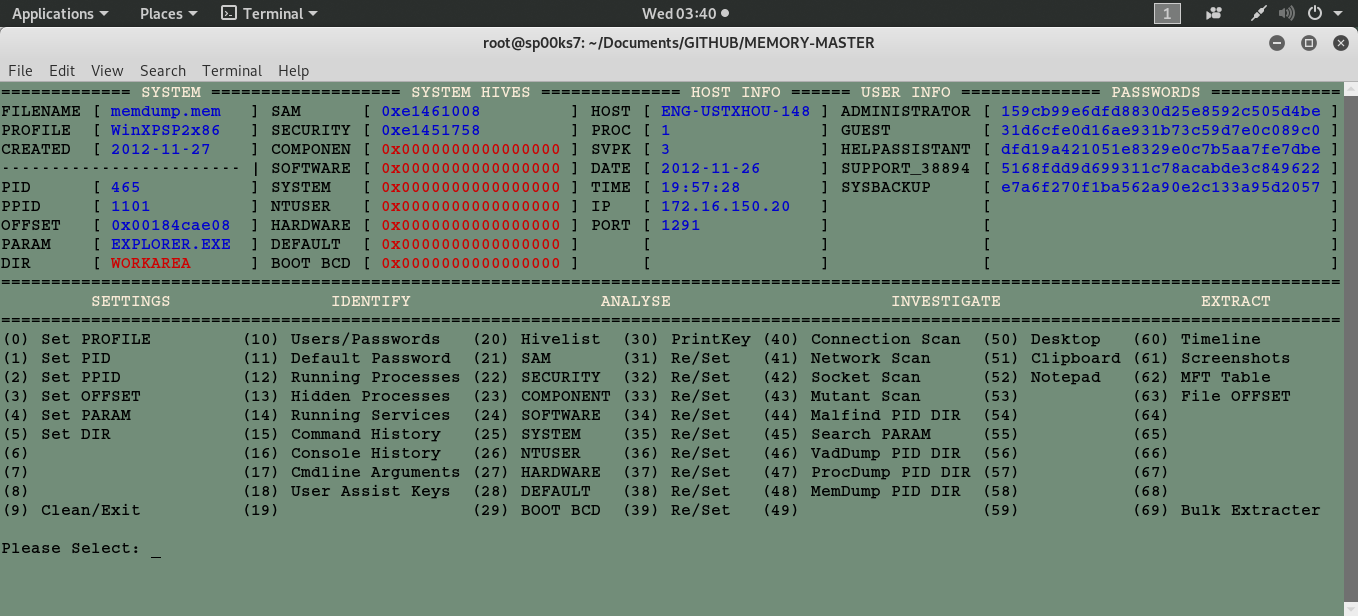
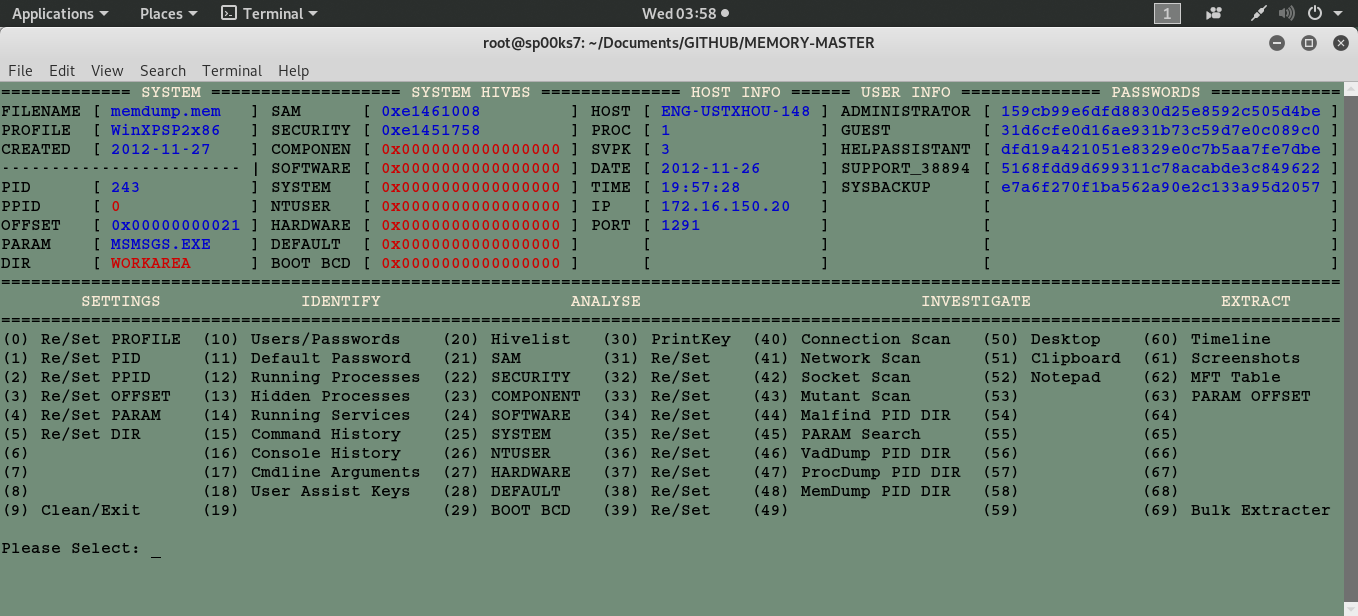
changes

diff --git a/memory_master.py b/memory_master.py
@@ -520,15 +520,15 @@ def Display():
 # -------------------------------------------------------------------------------------
 	
    print "="*134
-   print " "*8,
+   print " "*7,
    print colored("SETTINGS",'white'),
-   print " "*14,
+   print " "*12,
    print colored("IDENTIFY",'white'),
    print " "*17,
    print colored("ANALYSE",'white'),
-   print " "*20,
+   print " "*26,
    print colored("INVESTIGATE",'white'),
-   print " "*18,
+   print " "*17,
    print colored("EXTRACT",'white')
    print "="*134
 
@@ -541,16 +541,16 @@ def Display():
 # -------------------------------------------------------------------------------------
 
 menu = {}
-menu['(0)']="Set PROFILE         (10) Users/Passwords   (20) Hivelist  (30) PrintKey (40) Connection Scan  (50) Desktop   (60) Timeline"
-menu['(1)']="Set PID             (11) Default Password  (21) SAM       (31) Re/Set   (41) Network Scan     (51) Clipboard (61) Screenshots"
-menu['(2)']="Set PPID            (12) Running Processes (22) SECURITY  (32) Re/Set   (42) Socket Scan      (52) Notepad   (62) MFT Table"
-menu['(3)']="Set OFFSET          (13) Hidden Processes  (23) COMPONENT (33) Re/Set   (43) Mutant Scan      (53)           (63) File OFFSET" 
-menu['(4)']="Set PARAM           (14) Running Services  (24) SOFTWARE  (34) Re/Set   (44) Malfind PID DIR  (54)           (64)"
-menu['(5)']="Set DIR             (15) Command History   (25) SYSTEM    (35) Re/Set   (45) Search PARAM     (55)           (65)"
-menu['(6)']="                    (16) Console History   (26) NTUSER    (36) Re/Set   (46) VadDump PID DIR  (56)           (66)"
-menu['(7)']="                    (17) Cmdline Arguments (27) HARDWARE  (37) Re/Set   (47) ProcDump PID DIR (57)           (67)"
-menu['(8)']="                    (18) User Assist Keys  (28) DEFAULT   (38) Re/Set   (48) MemDump PID DIR  (58)           (68)"
-menu['(9)']="Clean/Exit          (19)                   (29) BOOT BCD  (39) Re/Set   (49)                  (59)           (69) Bulk Extracter"
+menu['(0)']="Re/Set PROFILE  (10) Users/Passwords    (20) Hivelist   (30) PrintKey  (40) Connection Scan   (50) Desktop    (60) Timeline"
+menu['(1)']="Re/Set PID      (11) Default Password   (21) SAM        (31) Re/Set    (41) Network Scan      (51) Clipboard  (61) Screenshots"
+menu['(2)']="Re/Set PPID     (12) Running Processes  (22) SECURITY   (32) Re/Set    (42) Socket Scan       (52) Notepad    (62) MFT Table"
+menu['(3)']="Re/Set OFFSET   (13) Hidden Processes   (23) COMPONENT  (33) Re/Set    (43) Mutant Scan       (53)            (63) PARAM OFFSET" 
+menu['(4)']="Re/Set PARAM    (14) Running Services   (24) SOFTWARE   (34) Re/Set    (44) Malfind PID DIR   (54)            (64)"
+menu['(5)']="Re/Set DIR      (15) Command History    (25) SYSTEM     (35) Re/Set    (45) PARAM Search      (55)            (65)"
+menu['(6)']="                (16) Console History    (26) NTUSER     (36) Re/Set    (46) VadDump PID DIR   (56)            (66)"
+menu['(7)']="                (17) Cmdline Arguments  (27) HARDWARE   (37) Re/Set    (47) ProcDump PID DIR  (57)            (67)"
+menu['(8)']="                (18) User Assist Keys   (28) DEFAULT    (38) Re/Set    (48) MemDump PID DIR   (58)            (68)"
+menu['(9)']="Clean/Exit      (19)                    (29) BOOT BCD   (39) Re/Set    (49)                   (59)            (69) Bulk Extracter"
 
 
 # -------------------------------------------------------------------------------------

diff --git a/README.md b/README.md
@@ -7,7 +7,7 @@ Python utility file to forensically investigate memory-dump files via volatility
 
 | LANGUAGE  | FILENAME         | MD5 Hash                         |
 |------     |------            | -------                          |
-| python    | memory_master.py | 8c639c7037bdc0391123c68115d5ed03 |
+| python    | memory_master.py | a4b27bf39980d67435a7bbd6d31ced66 |
 | text file | profiles.txt     | 90a98544725dc945df30c20fabeb3e80 |
 | bash file | patch.sh         | 7a4231731982e09d9a703f7357170755 |
 
